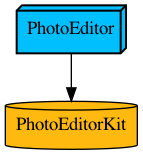
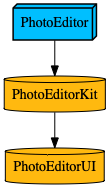
protocol created for text editor
- interface update in progress

diff --git a/Sources/PhotoEditorKit/Base Editor/Extensions/BaseEditor+Text.swift b/Sources/PhotoEditorKit/Base Editor/Extensions/BaseEditor+Text.swift
@@ -1,0 +1,74 @@
+//
+//  BaseEditor+Text.swift
+//  PhotoEditorKit
+//
+//  Created by VDB Developer on 03/02/21.
+//  Copyright © 2021 Pawan. All rights reserved.
+//
+import UIKit
+
+// MARK:- Layer Background
+
+extension BaseEditorViewController: TextLayerBackground {
+    //
+    func layerBackground(active: Bool) {
+    }
+    
+    func layerBackground(color: UIColor) {
+    }
+    
+    func layerBackground(opacity: Double) {
+    }
+    
+}
+
+// MARK:- Text Shadow
+
+extension BaseEditorViewController: TextShadow {
+    //
+    func shawdow(color: UIColor) {
+    }
+    
+    func shadow(opacity: Double) {
+    }
+    
+}
+
+// MARK:- Text Font
+
+extension BaseEditorViewController: TextFont {
+    //
+    func font(_: UIFont) {
+    }
+    
+    func font(size: Double) {
+    }
+    
+}
+
+// MARK:- Text Color
+
+extension BaseEditorViewController: TextColor {
+    //
+    func color(_: UIColor) {
+    }
+    
+}
+
+// MARK:- Text Fade
+
+extension BaseEditorViewController: TextFade {
+    //
+    func fade(value: Double) {
+    }
+    
+}
+
+// MARK:- Text Layer Rotate
+
+extension BaseEditorViewController: TextLayerRotate {
+    //
+    func layerRotate(angle: Double) {
+    }
+    
+}

diff --git a/Sources/PhotoEditorKit/Editor/Common/Protocols/EditorProtocols.swift b/Sources/PhotoEditorKit/Editor/Common/Protocols/EditorProtocols.swift
@@ -1,4 +1,5 @@
-import  Foundation
+import Foundation
+import UIKit
 
 protocol EditorDelegate {
     func activate(control: ControlType)
@@ -9,6 +10,7 @@ protocol ActionDelegate {
     func done()
 }
 
+// MARK:- Photo Editor Protocols
 protocol CIFilterDelegate {
     func exposure(with value: Double)
     func brightness(with value: Double)
@@ -16,4 +18,35 @@ protocol CIFilterDelegate {
     func contrast(with value: Double)
     func sharpness(with value: Double)
     func vignette(with value: Double)
+}
+
+
+// MARK:- Text Editor Protocols
+
+protocol TextLayerBackground {
+    func layerBackground(active: Bool)
+    func layerBackground(color: UIColor)
+    func layerBackground(opacity: Double)
+}
+
+protocol TextShadow {
+    func shawdow(color: UIColor)
+    func shadow(opacity: Double)
+}
+
+protocol TextFont {
+    func font(_ : UIFont)
+    func font(size: Double)
+}
+
+protocol TextColor {
+    func color(_: UIColor)
+}
+
+protocol TextFade {
+    func fade(value: Double)
+}
+
+protocol TextLayerRotate {
+    func layerRotate(angle: Double)
 }

diff --git a/Sources/PhotoEditorKit/Base Editor/Extensions/BaseEditor+Photo.swift b/Sources/PhotoEditorKit/Base Editor/Extensions/BaseEditor+Photo.swift
@@ -1,4 +1,11 @@
 //
+//  BaseEditor+Photo.swift
+//  PhotoEditorKit
+//
+//  Created by VDB Developer on 03/02/21.
+//  Copyright © 2021 Pawan. All rights reserved.
+//
+
 extension BaseEditorViewController: CIFilterDelegate {
     //
     func saturation(with value: Double) {

diff --git a/README.md b/README.md
@@ -11,3 +11,6 @@
 	-  `tuist generate`
 3. Run Xcode project
 	- type `xed .` in terminal and enter
+
+#### Dependancy graph
+![alt text](./graph.png)
